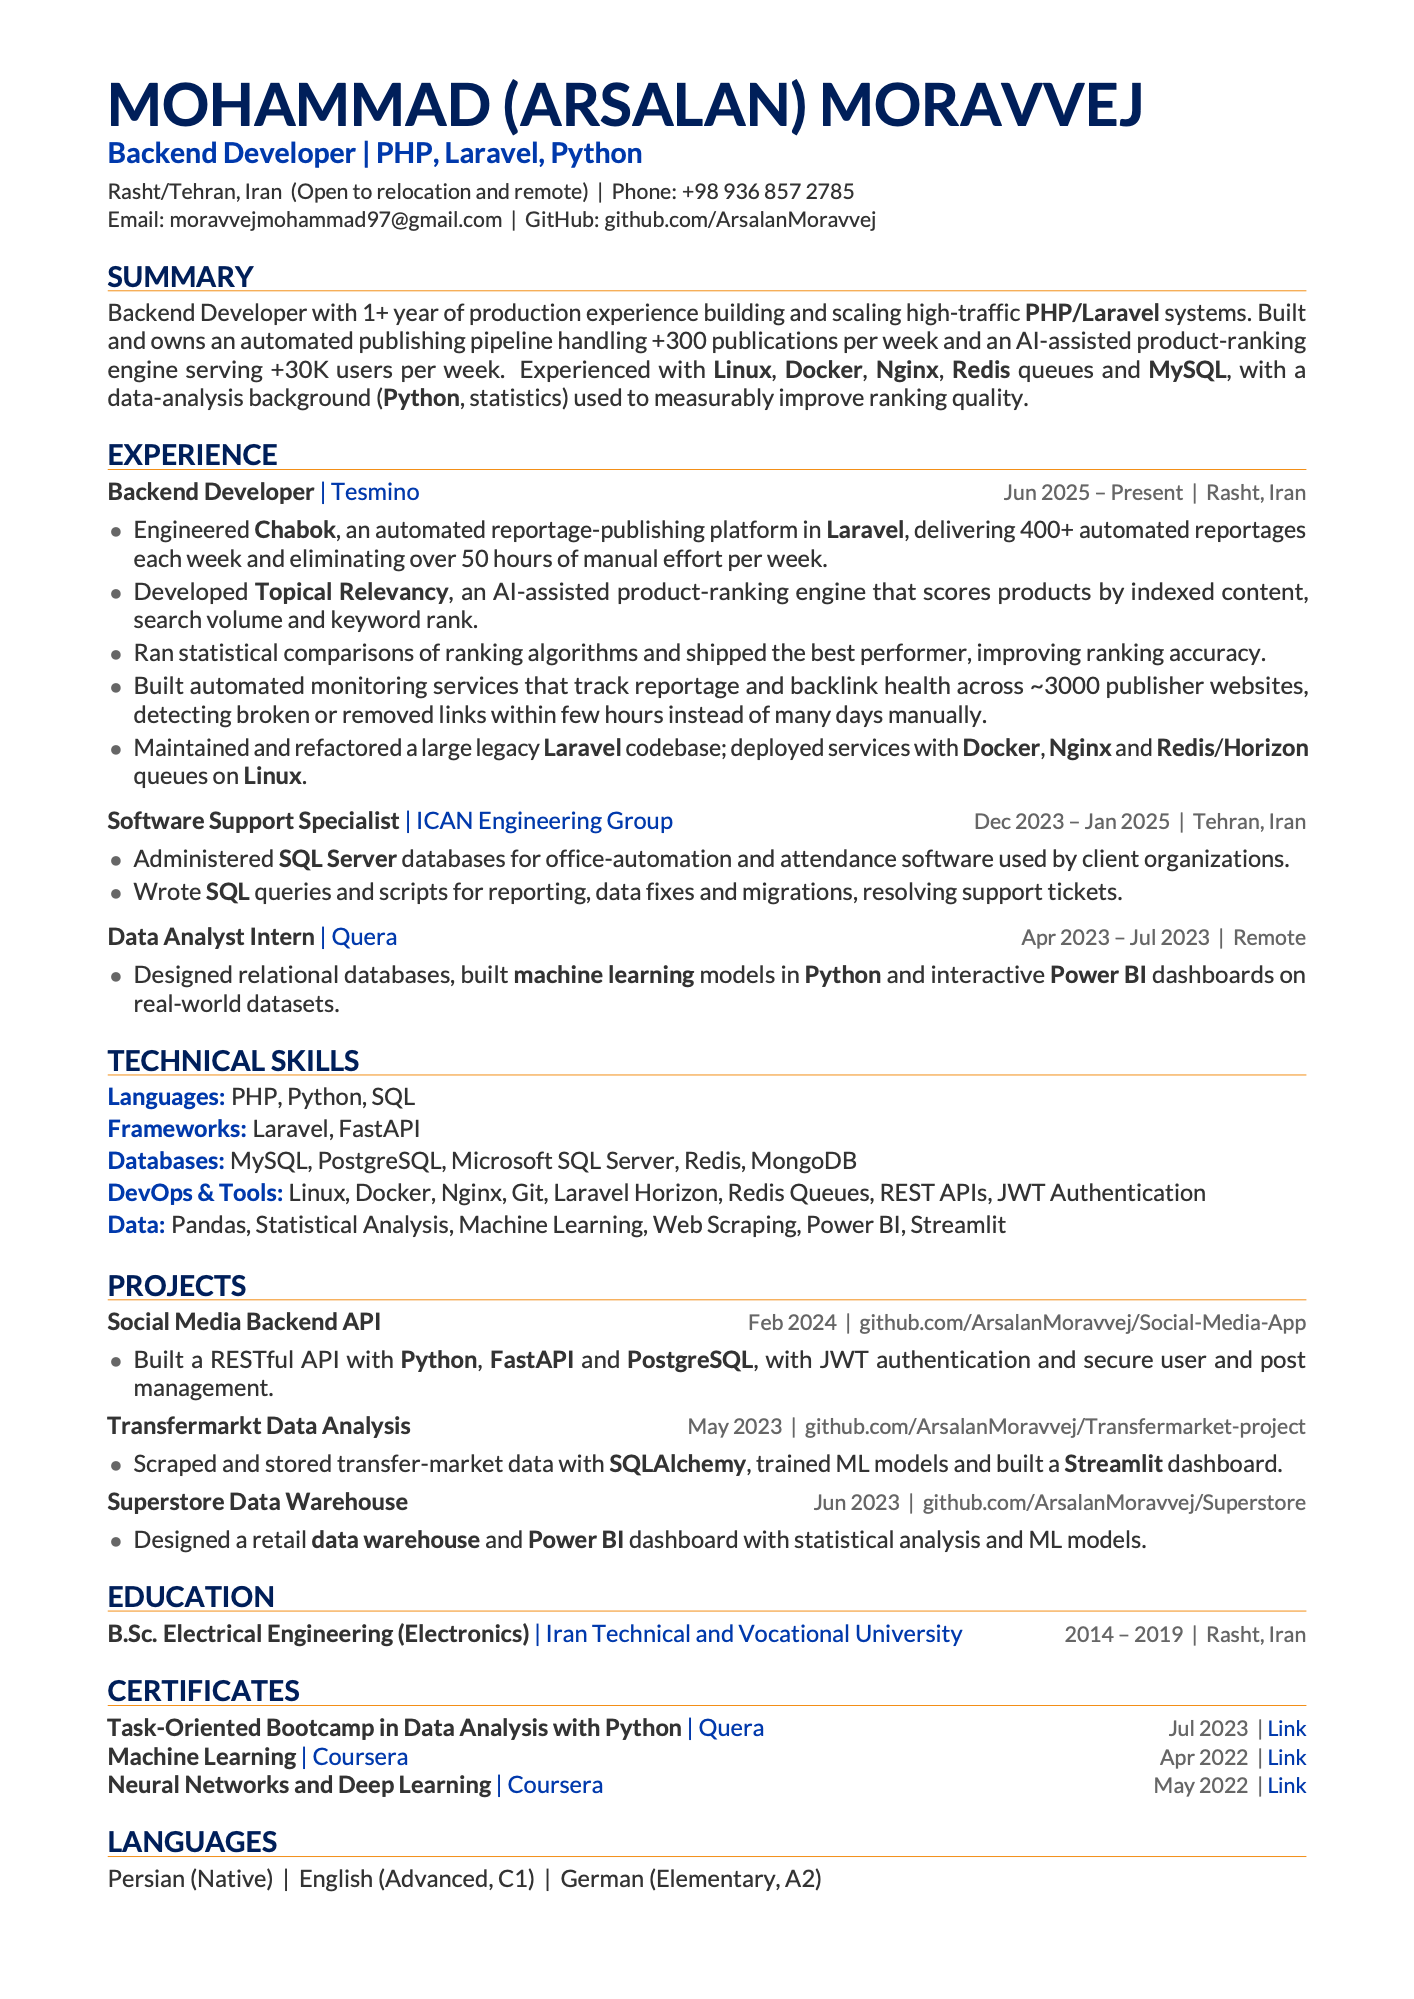
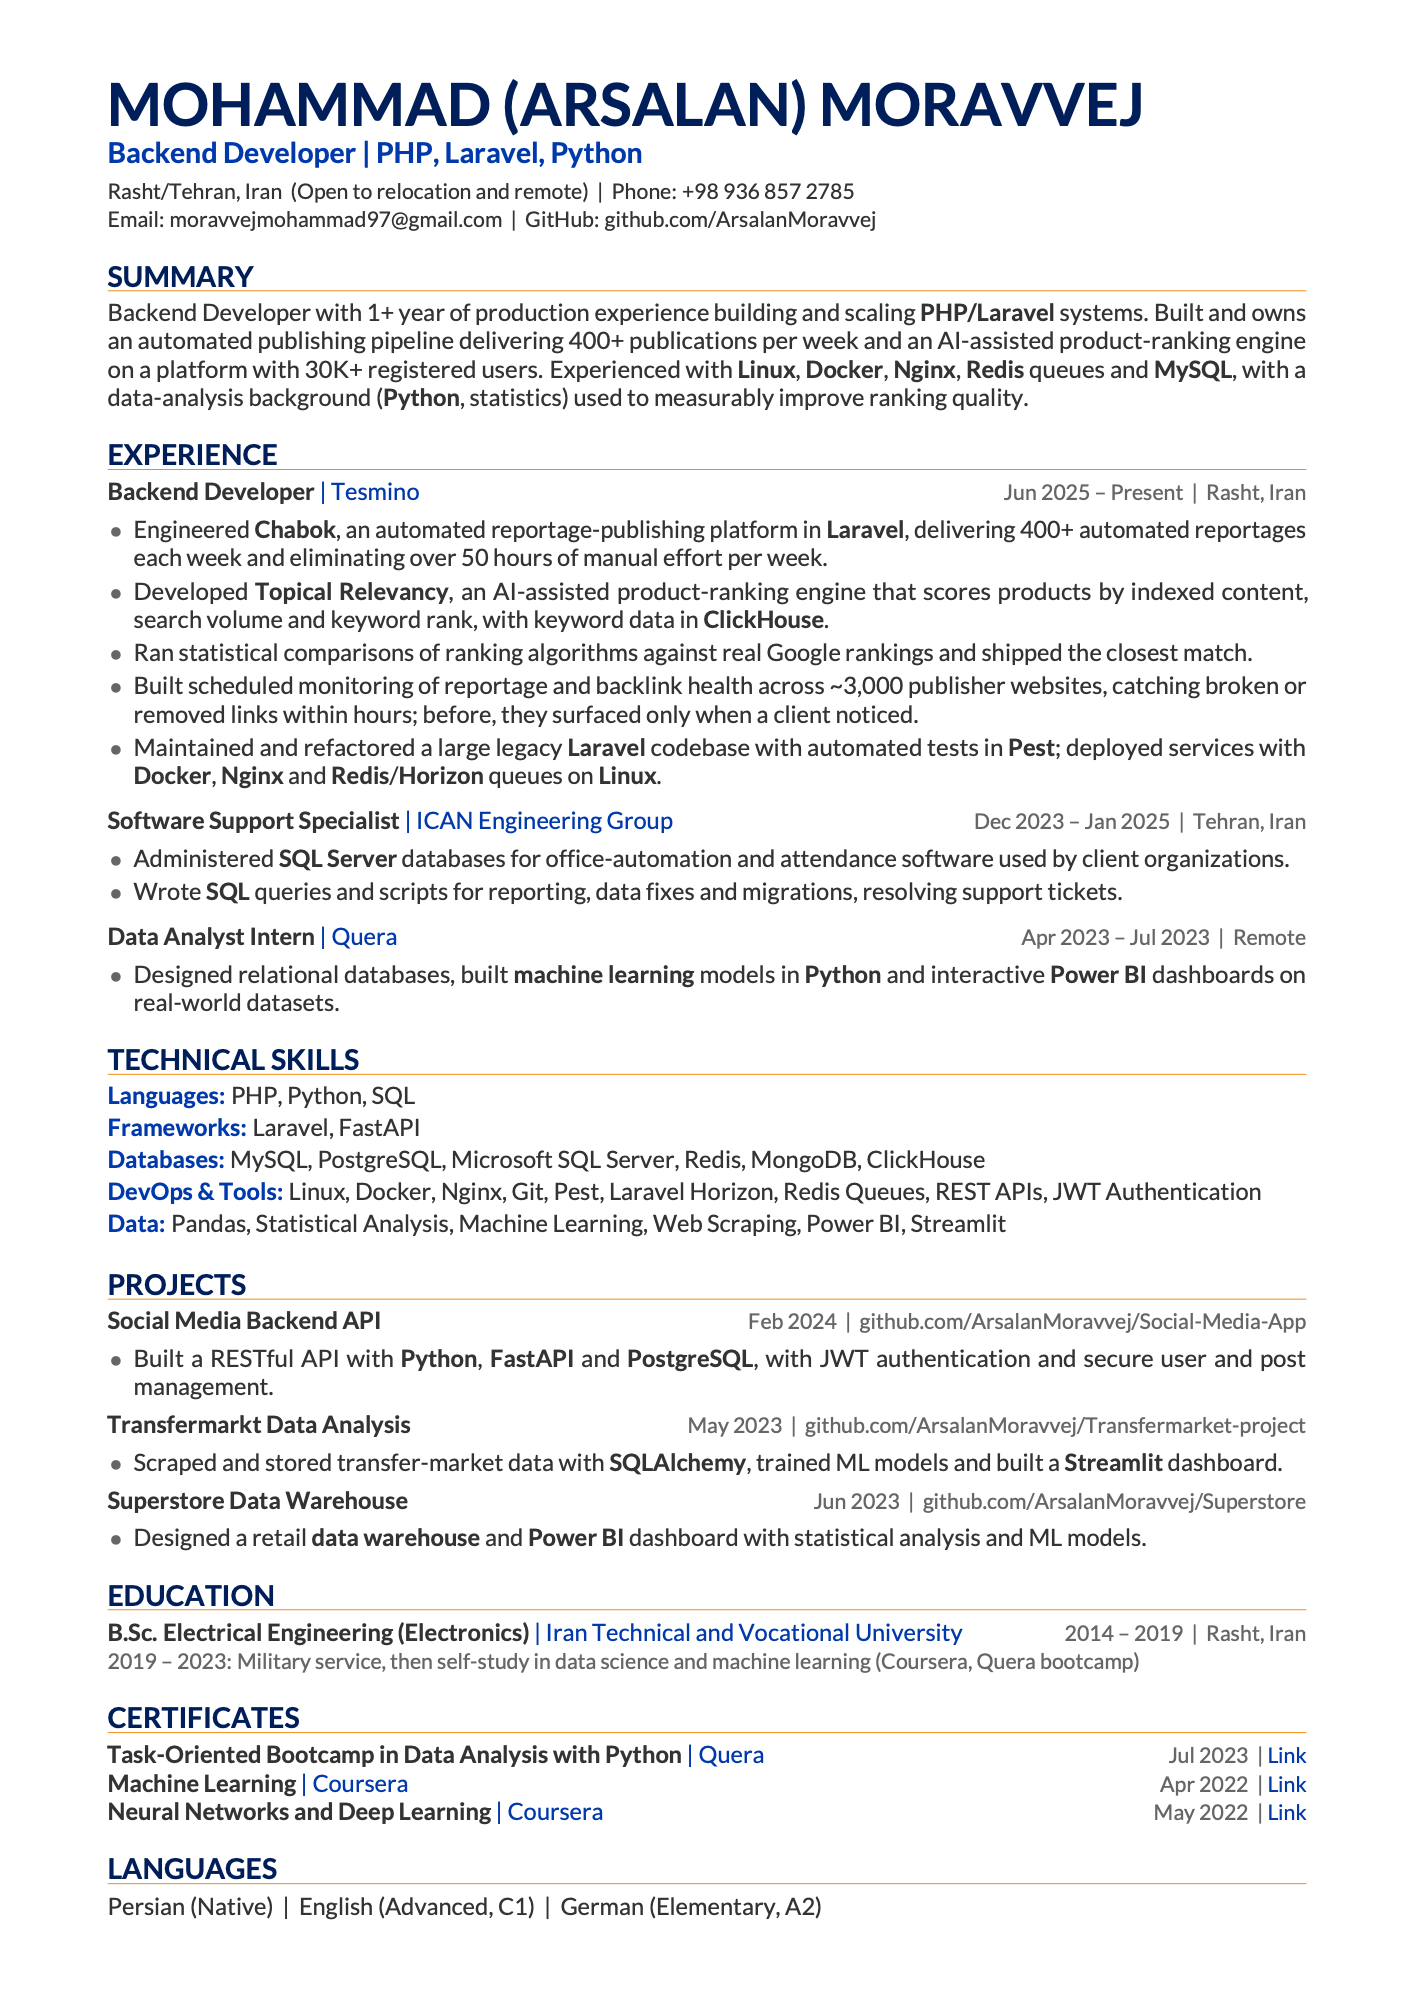
Correct CV figures and strengthen Tesmino bullets
Fix the publication count and registered-users claim, add ClickHouse
and Pest, sharpen the ranking and monitoring bullets, and explain the
2019-2023 gap.

diff --git a/main.tex b/main.tex
@@ -54,16 +54,16 @@ GitHub: \href{https://github.com/ArsalanMoravvej}{github.com/ArsalanMoravvej}
 }
 
 \section{Summary}
-Backend Developer with 1+ year of production experience building and scaling high-traffic \textbf{PHP/Laravel} systems. Built and owns an automated publishing pipeline handling +300 publications per week and an AI-assisted product-ranking engine serving +30K users per week. Experienced with \textbf{Linux}, \textbf{Docker}, \textbf{Nginx}, \textbf{Redis} queues and \textbf{MySQL}, with a data-analysis background (\textbf{Python}, statistics) used to measurably improve ranking quality.
+Backend Developer with 1+ year of production experience building and scaling \textbf{PHP/Laravel} systems. Built and owns an automated publishing pipeline delivering 400+ publications per week and an AI-assisted product-ranking engine on a platform with 30K+ registered users. Experienced with \textbf{Linux}, \textbf{Docker}, \textbf{Nginx}, \textbf{Redis} queues and \textbf{MySQL}, with a data-analysis background (\textbf{Python}, statistics) used to measurably improve ranking quality.
 
 \section{Experience}
 \role{Backend Developer}{Tesmino}{Jun 2025 \textendash\ Present}{Rasht, Iran}
 \begin{itemize}
   \item Engineered \textbf{Chabok}, an automated reportage-publishing platform in \textbf{Laravel}, delivering 400+ automated reportages each week and eliminating over 50 hours of manual effort per week.
-  \item Developed \textbf{Topical Relevancy}, an AI-assisted product-ranking engine that scores products by indexed content, search volume and keyword rank.
-  \item Ran statistical comparisons of ranking algorithms and shipped the best performer, improving ranking accuracy.
-  \item Built automated monitoring services that track reportage and backlink health across \textasciitilde 3000 publisher websites, detecting broken or removed links within few hours instead of many days manually.
-  \item Maintained and refactored a large legacy \textbf{Laravel} codebase; deployed services with \textbf{Docker}, \textbf{Nginx} and \textbf{Redis}/\textbf{Horizon} queues on \textbf{Linux}.
+  \item Developed \textbf{Topical Relevancy}, an AI-assisted product-ranking engine that scores products by indexed content, search volume and keyword rank, with keyword data in \textbf{ClickHouse}.
+  \item Ran statistical comparisons of ranking algorithms against real Google rankings and shipped the closest match.
+  \item Built scheduled monitoring of reportage and backlink health across \textasciitilde 3,000 publisher websites, catching broken or removed links within hours; before, they surfaced only when a client noticed.
+  \item Maintained and refactored a large legacy \textbf{Laravel} codebase with automated tests in \textbf{Pest}; deployed services with \textbf{Docker}, \textbf{Nginx} and \textbf{Redis}/\textbf{Horizon} queues on \textbf{Linux}.
 \end{itemize}
 \vspace{3pt}
 \role{Software Support Specialist}{ICAN Engineering Group}{Dec 2023 \textendash\ Jan 2025}{Tehran, Iran}
@@ -80,8 +80,8 @@ Backend Developer with 1+ year of production experience building and scaling hig
 \section{Technical Skills}
 \skillrow{Languages}{PHP, Python, SQL}
 \skillrow{Frameworks}{Laravel, FastAPI}
-\skillrow{Databases}{MySQL, PostgreSQL, Microsoft SQL Server, Redis, MongoDB}
-\skillrow{DevOps \& Tools}{Linux, Docker, Nginx, Git, Laravel Horizon, Redis Queues, REST APIs, JWT Authentication}
+\skillrow{Databases}{MySQL, PostgreSQL, Microsoft SQL Server, Redis, MongoDB, ClickHouse}
+\skillrow{DevOps \& Tools}{Linux, Docker, Nginx, Git, Pest, Laravel Horizon, Redis Queues, REST APIs, JWT Authentication}
 \skillrow{Data}{Pandas, Statistical Analysis, Machine Learning, Web Scraping, Power BI, Streamlit}
 
 \section{Projects}
@@ -100,7 +100,7 @@ Backend Developer with 1+ year of production experience building and scaling hig
 
 \section{Education}
 {\bfseries B.Sc. Electrical Engineering (Electronics)} \textcolor{accent}{| Iran Technical and Vocational University}\hfill {\small\color{muted}2014 \textendash\ 2019 \ | \ Rasht, Iran}\par
-% Optional: explain the 2019-2023 gap in one line, e.g. military service or self-study, if it applies.
+{\small\color{muted}2019 \textendash\ 2023: Military service, then self-study in data science and machine learning (Coursera, Quera bootcamp)}\par
 
 \section{Certificates}
 {\bfseries Task-Oriented Bootcamp in Data Analysis with Python} \textcolor{accent}{| Quera}\hfill {\small\color{muted}Jul 2023 \ \textbar\ \href{https://quera.org/certificate/IZqFa07q/}{\textcolor{accent}{Link}}}\par
